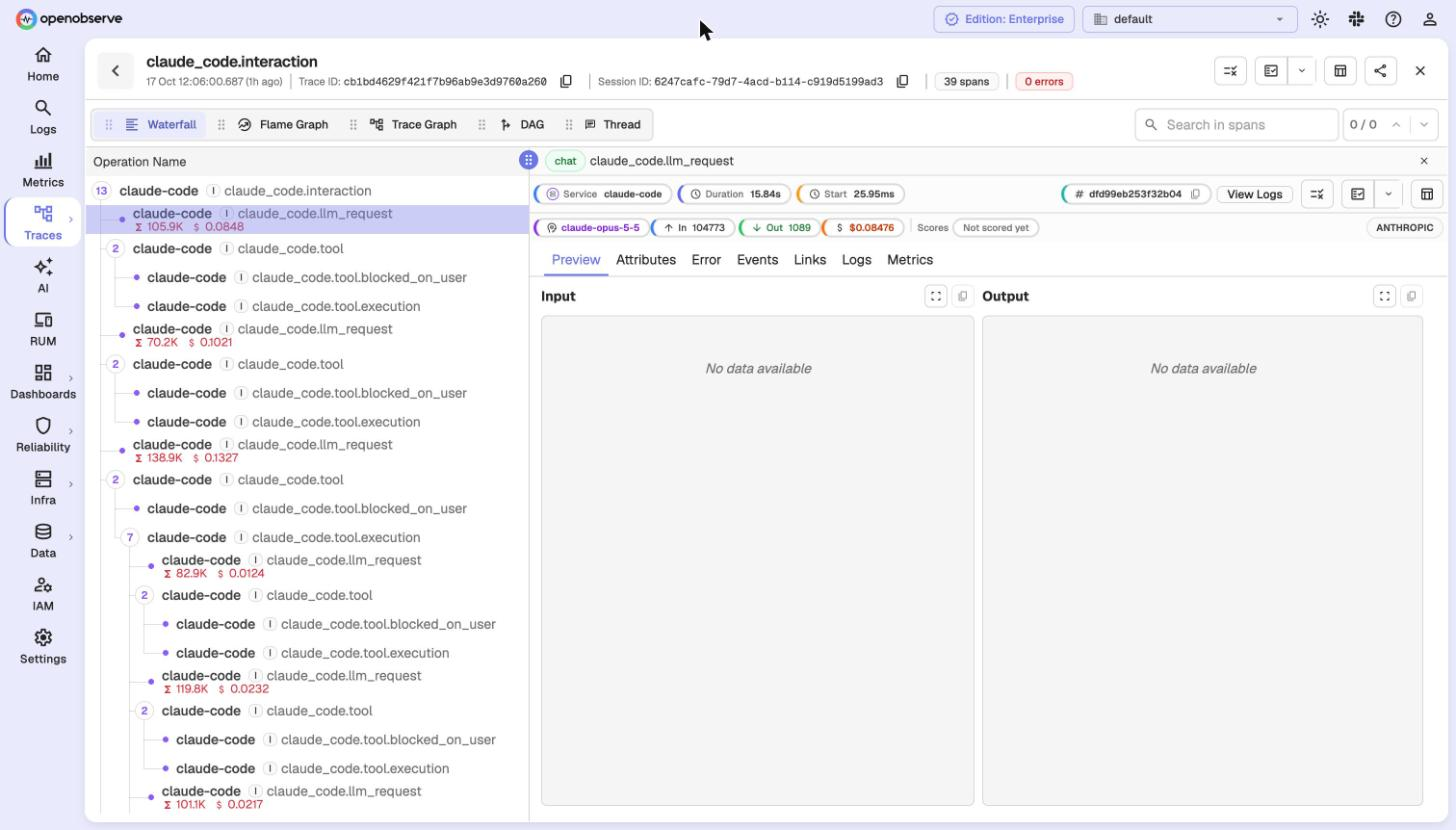
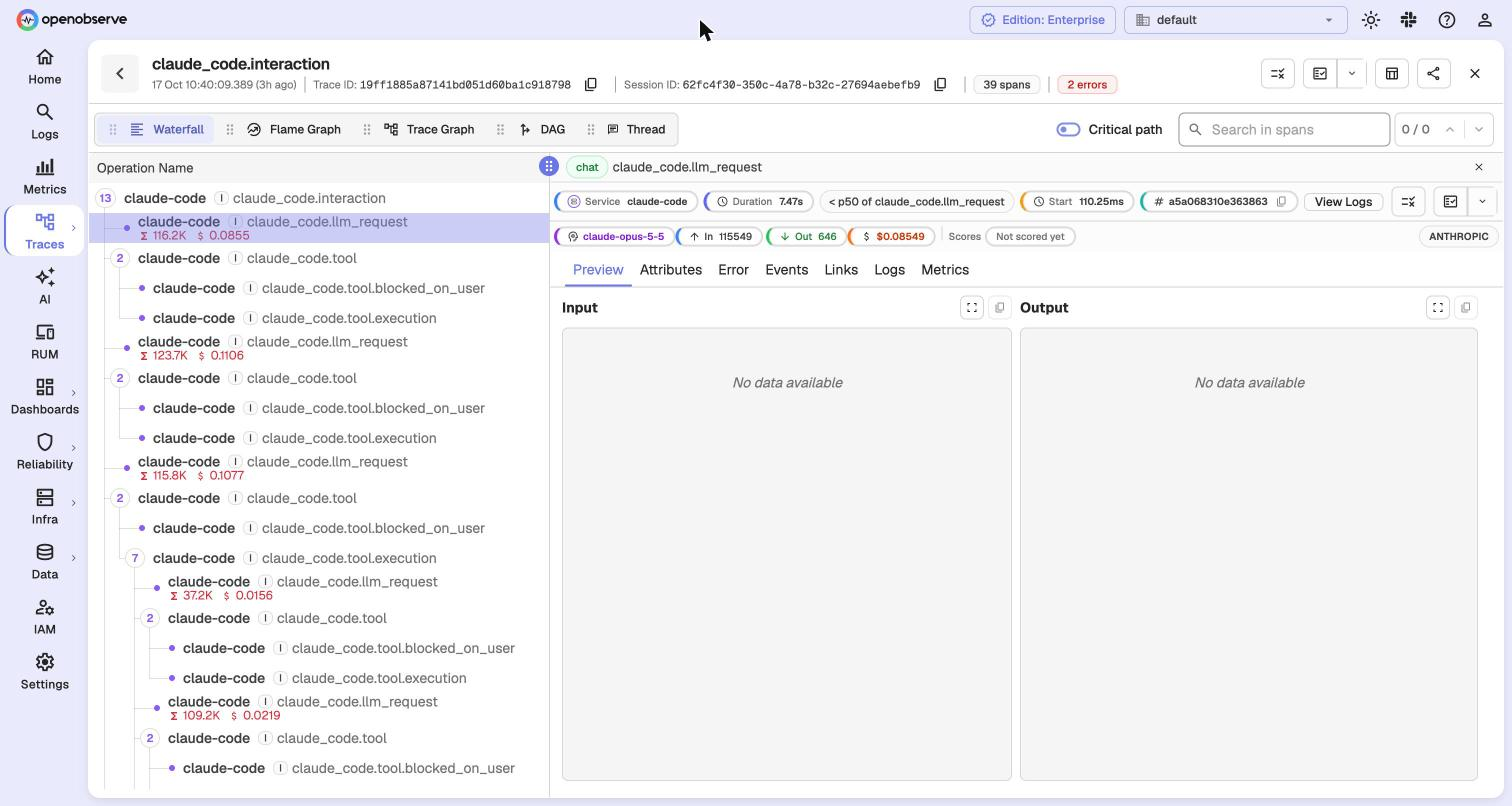
Move to OpenObserve v1.1.1, make CI and second installs safe, polish Traces
- OpenObserve v1.1.1 by default. Checked a fresh install, an in-place
  upgrade from v1.0.4 (it needs one extra restart, now documented), every
  dashboard, and all 35 agent-obs smoke calls. Screenshots retaken on it.
- O2_PROJECT: the compose project name was fixed, so a second playground
  on the same machine replaced the first one even with another port and
  container name. make doctor now catches that, and a broken MCP venv.
- make up only pulls missing images and retries when a registry
  rate-limits; CI caches the images. The last main run failed on
  "toomanyrequests" from public ECR.
- Traces dashboard: three tiles per row so titles fit, p95 time to first
  token in seconds, named axes.
- AGENTS.md: ran the setup through Claude Code on a fresh clone. Its data
  check read the streams API count, which showed 0 for minutes after 700
  spans had landed; it now counts with a search query.
- Docs: a search fallback when a span's Logs tab is empty, v1.1.0
  changelog.

diff --git a/docs/settings.md b/docs/settings.md
@@ -6,7 +6,7 @@ Everything here is already set up for you. This page is for when you want to kno
 
 | Setting | What it does | Why it's on |
 |---|---|---|
-| Image `openobserve-enterprise:v1.0.4` | The OpenObserve version | Pinned, so a restart never upgrades your data by surprise. |
+| Image `openobserve-enterprise:v1.1.1` | The OpenObserve version | Pinned, so a restart never upgrades your data by surprise. |
 | `O2_SERVICE_STREAMS_ENABLED=true` | Lets OpenObserve figure out which logs, traces and metrics belong to the same service | Without it, "View Logs" on a trace opens an empty page. |
 | `O2_SERVICE_STREAMS_SAMPLE_RATE=1` | Looks at every record, not a sample | A laptop sends little data, so sampling would miss things. |
 | `O2_SERVICE_GRAPH_PROCESSING_INTERVAL_SECS=60` | Rebuilds the service graph every minute | Otherwise you'd wait a long time to see it. |
@@ -27,7 +27,7 @@ uses a tiny fraction of that.
 Prefer the open-source build? Add this to `.env`, delete `./data`, and run `make restart`:
 
 ```bash
-O2_IMAGE=public.ecr.aws/zinclabs/openobserve:v1.0.4
+O2_IMAGE=public.ecr.aws/zinclabs/openobserve:v1.1.1
 ```
 
 Traces, logs and metrics all work. A few of the links between them won't.
@@ -70,7 +70,7 @@ New OpenObserve versions come out often. Here's the safe way to move to one.
 **1. See what you're on, and what's new.**
 
 ```bash
-make version                                                     # e.g. "openobserve v1.0.4"
+make version                                                     # e.g. "openobserve v1.1.1"
 docker pull public.ecr.aws/zinclabs/openobserve-enterprise:latest
 docker run --rm --entrypoint /openobserve public.ecr.aws/zinclabs/openobserve-enterprise:latest --version
 ```
@@ -81,9 +81,10 @@ docker run --rm --entrypoint /openobserve public.ecr.aws/zinclabs/openobserve-en
 make backup                  # writes backups/o2-data-<date>.tgz
 ```
 
-**3. Try the new version on that copy first** (optional, but worth it for a big jump). Unpack
-the backup in a second folder of this repo, give it another port in a
-`docker-compose.override.yml`, start it, and click around. Your real instance keeps running.
+**3. Try the new version on that copy first** (optional, but worth it for a big jump). Clone
+this repo into a second folder, unpack the backup there, and give it its own `.env` with
+`O2_PORT=5090`, `O2_CONTAINER=openobserve-2` and `O2_PROJECT=openobserve-2`. Start it with the
+new `O2_IMAGE` and click around. Your real instance keeps running.
 
 **4. Switch.** Put the exact version in `.env` (not `latest`, so it never changes by surprise):
 
@@ -96,6 +97,10 @@ make version                 # check it took
 OpenObserve upgrades its database by itself on first start. If something's wrong, remove the
 `O2_IMAGE` line, restore the backup (below) and `make restart`.
 
+Going from v1.0.x to v1.1.x, run `make restart` once more after the first start. On the first
+boot after the upgrade I saw `connect to gRPC node error` every minute and alerts failing to
+evaluate; one restart cleared both. A fresh v1.1.1 install doesn't have this.
+
 **5. Tidy up** once you're happy:
 
 ```bash
@@ -103,8 +108,8 @@ make clean-images            # lists old OpenObserve images and asks before remo
 rm backups/o2-data-<date>.tgz
 ```
 
-That's exactly how this playground went from v0.92.2 to v1.0.4: the database upgraded itself
-(schema 64 → 77), and every stream, dashboard and alert came through.
+That's how this playground went from v0.92.2 to v1.0.4 (schema 64 → 77) and then to v1.1.1:
+the database upgraded itself, and every stream, dashboard and alert came through.
 
 ## Back up and restore
 

diff --git a/AGENTS.md b/AGENTS.md
@@ -24,7 +24,7 @@ yes:
   they ask for it by name.
 - `make reset` deletes every stream, dashboard and user.
 - `make mcp-install` registers an MCP server with their Claude Code.
-- Changing `O2_PORT` or `O2_CONTAINER` when they already run another OpenObserve.
+- Changing `O2_PORT`, `O2_CONTAINER` or `O2_PROJECT` when they already run another OpenObserve.
 
 Never print the password from `.env` in the chat. Tell them it's in `.env`, next to
 `ZO_ROOT_USER_EMAIL`. Never commit `.env`.
@@ -36,11 +36,12 @@ fix it before the next step. [docs/troubleshooting.md](docs/troubleshooting.md) 
 usual ones.
 
 1. **Check the machine.** Run `make doctor`. It checks Docker, Compose v2, Python 3, curl and
-   whether port 5080 is free. Fix anything marked `fix`. If 5080 is taken by something else,
-   add `O2_PORT=5090` and `O2_CONTAINER=openobserve-2` to `.env` (after asking) and use that
-   port everywhere below.
+   whether port 5080 is free. Fix anything marked `fix`. If 5080 is taken, or another folder's
+   OpenObserve already uses the name, add `O2_PORT=5090`, `O2_CONTAINER=openobserve-2` and
+   `O2_PROJECT=openobserve-2` to `.env` (after asking) and use that port everywhere below. All
+   three are needed: without `O2_PROJECT`, `make up` would replace their other playground.
 
-2. **Start OpenObserve.** Run `make up`. The first run pulls a ~620 MB image. On first start it
+2. **Start OpenObserve.** Run `make up`. The first run pulls a ~680 MB image. On first start it
    creates `.env` with a generated password. It's done when it prints
    `OpenObserve is up: http://localhost:5080`. If it times out, run `make logs`. The usual cause
    is a password OpenObserve thinks is too weak.
@@ -63,18 +64,20 @@ usual ones.
    and a Basic auth header built from the login in `.env`. Help them set the variables for their
    language, then check with step 7.
 
-7. **Check the data is there.** This lists trace streams and their span counts without printing
-   the password:
+7. **Check the data is there.** This counts the spans from the last 8 hours without printing
+   the password. Use their app's stream name instead of `claude_code` if they sent their own:
 
    ```bash
    set -a; . ./.env; set +a
-   curl -s -u "$ZO_ROOT_USER_EMAIL:$ZO_ROOT_USER_PASSWORD" \
-     "http://localhost:${O2_PORT:-5080}/api/default/streams?type=traces" \
-     | python3 -c 'import json,sys; [print(s["name"], s["stats"]["doc_num"], "spans") for s in json.load(sys.stdin)["list"]]'
+   now=$(( $(date +%s) * 1000000 )); start=$(( now - 8 * 3600 * 1000000 ))
+   curl -s -u "$ZO_ROOT_USER_EMAIL:$ZO_ROOT_USER_PASSWORD" -H 'Content-Type: application/json' \
+     "http://localhost:${O2_PORT:-5080}/api/default/_search?type=traces" \
+     -d "{\"query\":{\"sql\":\"SELECT count(*) AS spans FROM claude_code\",\"start_time\":$start,\"end_time\":$now}}" \
+     | python3 -c 'import json,sys; print(json.load(sys.stdin)["hits"][0]["spans"], "spans")'
    ```
 
-   You want a `claude_code` stream (or their app's stream) with more than zero spans. Counts can
-   lag a few seconds behind.
+   You want more than zero. Don't use the span counts on the Streams page or the streams API
+   for this: they're a summary that can show 0 for several minutes after the data has landed.
 
 8. **Open it and show them around.** Run `make open`, or give them the URL. They log in with the
    email and password from `.env`. Then point them at:

diff --git a/CHANGELOG.md b/CHANGELOG.md
@@ -4,7 +4,16 @@ Format: [Keep a Changelog](https://keepachangelog.com/en/1.1.0/). Versions follo
 
 ## [Unreleased]
 
+## [1.1.0] - 2026-10-17
+
 ### Added
+- `O2_PROJECT` in `.env`, so a second playground on the same machine gets its own Docker
+  Compose project. Before this, a second folder replaced the first one even with a different
+  port and container name. `make doctor` now catches both cases.
+- `make up` retries image pulls when a registry rate-limits, and only pulls missing images. CI
+  caches the images between runs.
+- `make doctor` warns when the agent-obs MCP install is broken, which happens after a Python
+  upgrade removes the interpreter its virtualenv points at.
 - `AGENTS.md`, so Claude Code, Codex, Cursor, Gemini CLI or Copilot can set the playground up
   step by step, with a check after each step and a list of things to ask first. `CLAUDE.md` and
   `GEMINI.md` point to it, and `/setup` runs it in Claude Code.
@@ -14,11 +23,19 @@ Format: [Keep a Changelog](https://keepachangelog.com/en/1.1.0/). Versions follo
   checks, p95/p99 latency and subagents.
 
 ### Changed
+- OpenObserve v1.1.1 by default (was v1.0.4). Fresh installs, upgrades from v1.0.4, every
+  dashboard and all 35 agent-obs smoke calls were checked on it. Upgrading from v1.0.x needs one
+  extra `make restart`; see docs/settings.md.
+- Claude Code Traces dashboard: three tiles per row so titles fit, p95 time to first token in
+  seconds, and named axes instead of `x_axis_1` / `y_axis_1`.
 - New screenshots for the README, the tracing tour and the Claude Code page, taken on a fresh
-  clone with example data, plus Overview and Ops dashboard shots. The README now opens with the
-  end-to-end diagram.
+  v1.1.1 install with example data, plus Overview and Ops dashboard shots. The README now opens
+  with the end-to-end diagram.
 
 ### Fixed
+- The data check in `AGENTS.md` read the streams API's span count, which can show 0 for minutes
+  after the data lands. It now counts with a search query, like CI does. Found by running the
+  setup through Claude Code on a fresh clone.
 - The "Minutes waiting on a human" tile counted every permission check, including the ones
   settings rules approve in about a second. It now counts only waits on a person.
 - The Claude Code Traces dashboard showed counts as "55.00". Counts now have no decimals;

diff --git a/README.md b/README.md
@@ -2,7 +2,7 @@
 
 [![ci](https://github.com/Iamrushabhshahh/openobserve-playground/actions/workflows/ci.yml/badge.svg)](https://github.com/Iamrushabhshahh/openobserve-playground/actions/workflows/ci.yml)
 [![License: MIT](https://img.shields.io/badge/license-MIT-blue.svg)](LICENSE)
-[![OpenObserve v1.0.4](https://img.shields.io/badge/OpenObserve-v1.0.4-6155f5.svg)](https://openobserve.ai)
+[![OpenObserve v1.1.1](https://img.shields.io/badge/OpenObserve-v1.1.1-6155f5.svg)](https://openobserve.ai)
 
 A ready-to-run [OpenObserve](https://openobserve.ai) on your laptop, set up for **tracing AI agents**.
 
@@ -27,7 +27,7 @@ That's it. `make quickstart` checks your machine, creates `.env` with a generate
 (it prints the login), starts OpenObserve, loads 6 hours of example agent activity plus four
 dashboards, and opens **<http://localhost:5080>**. Log in and go to **Traces**.
 
-About two minutes on a first run, most of it pulling the 620 MB OpenObserve image once. After
+About two minutes on a first run, most of it pulling the 680 MB OpenObserve image once. After
 that, a fresh start takes seconds.
 
 Prefer the steps one by one? `make doctor`, `make up`, `make demo`, `make open`.
@@ -77,7 +77,8 @@ AI model, the MCP server, and GitHub behind it.
 ![Service graph](docs/images/service-graph.jpg)
 
 **Logs next to traces.** Click any step, then the **Logs** tab. You get the log lines from that
-moment, right beside the trace.
+moment, right beside the trace. If the tab is empty, OpenObserve hasn't linked the service to
+its logs yet; searching the logs for `trace_id = '<the id>'` always works.
 
 ![Logs for a span](docs/images/trace-to-logs.jpg)
 
@@ -165,12 +166,16 @@ permission prompts and 66 questions it asked me. Six hours. The slow part of my 
 
 ## Running it next to another OpenObserve
 
-Set a different port and container name in `.env`, then `make up`:
+Set a different port, container name and project name in `.env`, then `make up`:
 
 ```bash
 O2_PORT=5090
 O2_CONTAINER=openobserve-2
+O2_PROJECT=openobserve-2
 ```
+
+All three matter. Without `O2_PROJECT`, Docker treats the new folder as your first playground
+and replaces it. `make doctor` checks this for you.
 
 ## Something not working?
 

diff --git a/docs/tracing-tour.md b/docs/tracing-tour.md
@@ -105,8 +105,10 @@ Every log line remembers which step it came from. So you can go either way:
 
 ![A log line that knows its trace](images/log-event.jpg)
 
-If "View Logs" ever opens an empty page, wait a few minutes: OpenObserve links services to
-their logs every 10 minutes.
+If the **Logs** tab or "View Logs" comes up empty, OpenObserve hasn't linked the service to its
+logs yet. It's meant to do that every 10 minutes, but on a fresh v1.1.1 install I've seen it
+take much longer. The search that always works is on the **Logs** page:
+`trace_id = '<the id>'`, or `span_id = '<the id>'` for one step.
 
 ## 7. Turn steps into numbers
 

diff --git a/docs/troubleshooting.md b/docs/troubleshooting.md
@@ -21,7 +21,8 @@ AWS ECR registry instead (`public.ecr.aws/zinclabs/openobserve-enterprise`). If 
 ### Port 5080 is already in use
 
 Another OpenObserve (or another app) is probably using it. `make doctor` tells you. Either
-stop it, or set `O2_PORT=5090` and `O2_CONTAINER=openobserve-2` in `.env`, then `make up`.
+stop it, or set `O2_PORT=5090`, `O2_CONTAINER=openobserve-2` and `O2_PROJECT=openobserve-2` in
+`.env`, then `make up`. Leave out `O2_PROJECT` and Docker replaces your other playground.
 
 ### I don't see a "View Trace" button on a log line
 

diff --git a/mcp/README.md b/mcp/README.md
@@ -10,7 +10,8 @@ slower?"*, *"when will we run out of budget this month?"* or *"what did the agen
 session?"* and get an answer from one tool call.
 
 > Built against the OpenObserve v1.0.4 schema and source. 176 offline tests pass, and
-> `make mcp-smoke` passes all 35 calls against a live v1.0.4 instance with real Claude Code data.
+> `make mcp-smoke` passes all 35 calls against a live v1.0.4 instance with real Claude Code data,
+> and against v1.1.1 with the example data.
 
 ## Why another MCP server, when OpenObserve has one?
 
